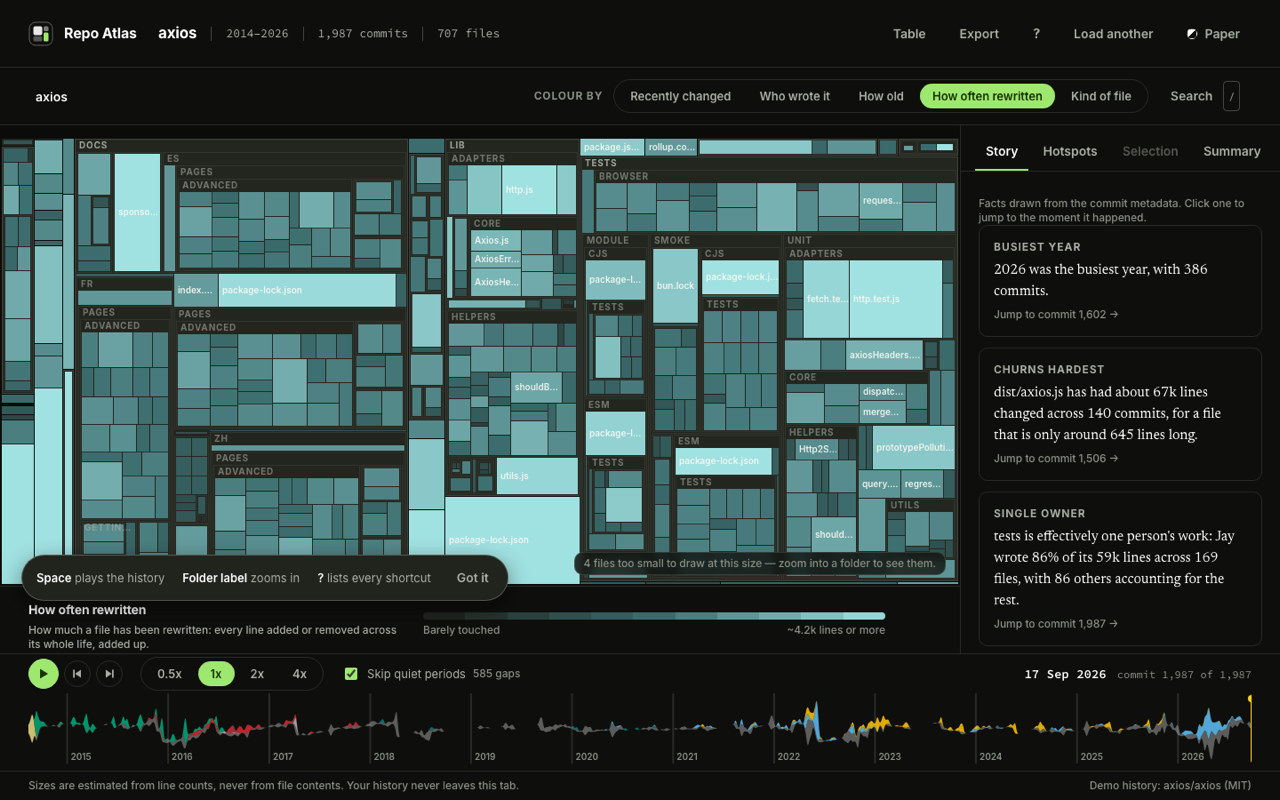
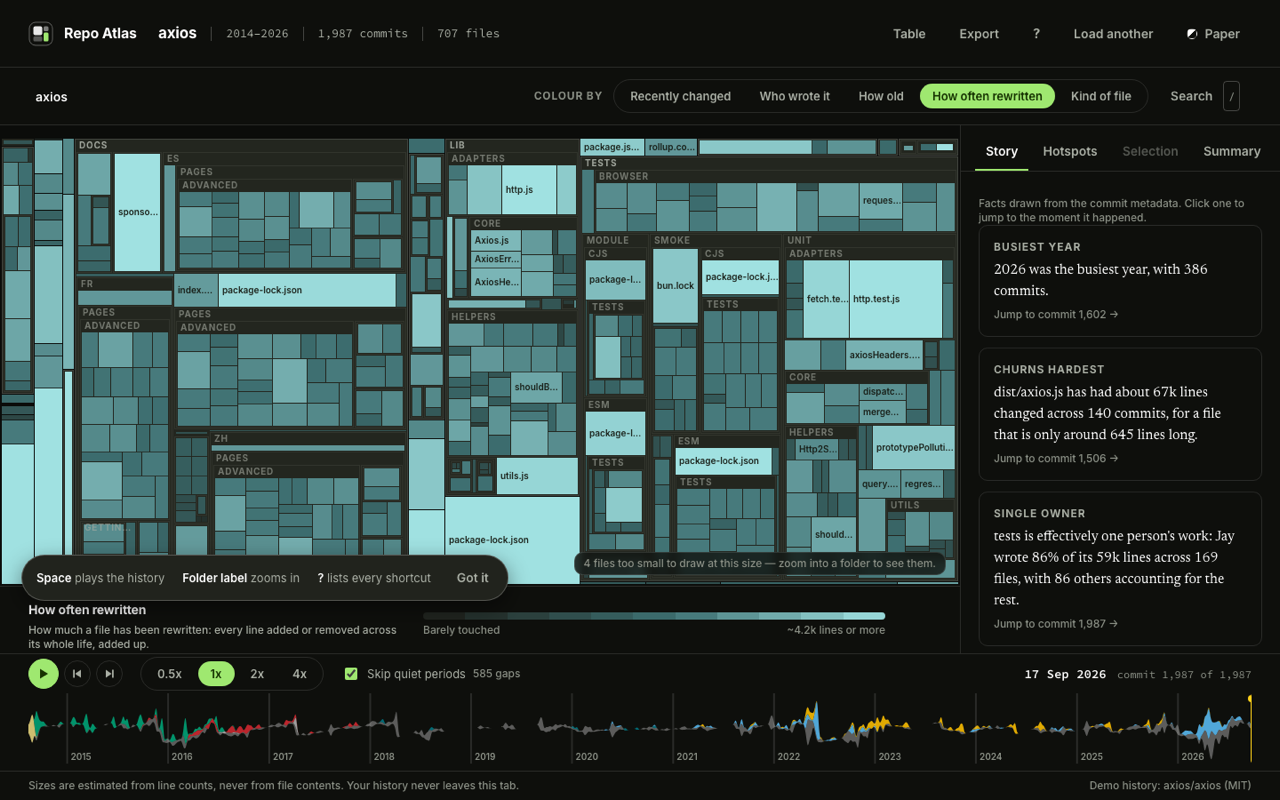
Fix unreadable map labels on bright cells
Labels on the Recently changed, How old and How often rewritten maps were
white on bright yellow and lime. The ink for each cell came from a luminance
helper that only understood #rrggbb, but those three ramps are built by d3 and
come back as rgb(r, g, b) strings. They failed to parse, the helper silently
substituted mid-grey, and every shade of every ramp was judged "dark" and given
white text. Who wrote it and Kind of file use hex colours, which is why they
looked right.

Colour parsing now handles hex, short hex and rgb()/rgba(), and throws on
anything it cannot read instead of guessing. The ink is whichever of the two
has the higher measured contrast, rather than a fixed brightness cut-off that
sat slightly off the real crossover.

Between very dark and very light there is a band of mid-tones where neither ink
reaches 4.5:1, and a smooth ramp has to cross it. Shades that land in it now
borrow their nearest readable neighbour, so no cell can have a label that
cannot be read while the ramp still looks continuous.

The palette is now built by a pure function that a test runs against the real
stylesheet, checking the ink on every shade in both themes. The existing
contrast test only checked each ramp's five anchor colours, never the shades
between them or the code that picks the ink, so it could not have caught this.
The new test fails when the original bug is put back.

diff --git a/src/map/colors.ts b/src/map/colors.ts
@@ -38,28 +38,86 @@ export const MODE_HINTS: Record<Mode, string> = {
 
 const LUT_N = 64;
 
-function ramp(stops: string[], domain?: number[]): string[] {
+/** Text has to reach this against whatever it is drawn on (WCAG AA, section 11). */
+export const MIN_CONTRAST = 4.5;
+
+/**
+ * Read any CSS colour a token or a d3 interpolation can produce.
+ *
+ * d3 hands back `rgb(r, g, b)` strings while the tokens are hex, and the ink
+ * choice below depends on reading both. An unreadable colour throws rather than
+ * falling back to a guess: an earlier version defaulted to mid-grey, which made
+ * every interpolated shade look "dark" and put white labels on bright yellow.
+ */
+export function parseColour(css: string): [number, number, number] {
+  const c = css.trim().toLowerCase();
+
+  if (c.startsWith('#')) {
+    const hex = c.length === 4 ? c.slice(1).replace(/./g, (d) => d + d) : c.slice(1, 7);
+    if (/^[0-9a-f]{6}$/.test(hex)) {
+      return [0, 2, 4].map((i) => parseInt(hex.slice(i, i + 2), 16)) as [number, number, number];
+    }
+  }
+
+  const fn = c.match(/^rgba?\(([^)]*)\)/);
+  if (fn) {
+    const parts = fn[1]!.split(/[\s,/]+/).filter(Boolean).slice(0, 3).map(Number);
+    if (parts.length === 3 && parts.every((n) => Number.isFinite(n))) {
+      return parts.map((n) => Math.max(0, Math.min(255, Math.round(n)))) as [number, number, number];
+    }
+  }
+
+  throw new Error(`Cannot read "${css}" as a colour`);
+}
+
+/** Relative luminance, per WCAG. */
+export function luminance(css: string): number {
+  const [r, g, b] = parseColour(css).map((v) => {
+    const s = v / 255;
+    return s <= 0.03928 ? s / 12.92 : Math.pow((s + 0.055) / 1.055, 2.4);
+  }) as [number, number, number];
+  return 0.2126 * r + 0.7152 * g + 0.0722 * b;
+}
+
+export function contrastRatio(a: string, b: string): number {
+  const la = luminance(a);
+  const lb = luminance(b);
+  return (Math.max(la, lb) + 0.05) / (Math.min(la, lb) + 0.05);
+}
+
+/** How well the better of the two inks reads on a fill. */
+function bestContrast(fill: string, inkDark: string, inkLight: string): number {
+  return Math.max(contrastRatio(fill, inkDark), contrastRatio(fill, inkLight));
+}
+
+/**
+ * Between very dark and very light there is a band of mid-tones where neither
+ * a near-black nor a near-white label reaches the minimum. A smooth ramp has to
+ * cross it, and a cell that lands inside it would have unreadable text.
+ *
+ * Each shade in the band borrows its nearest readable neighbour instead. The
+ * ramp stays visually continuous, since the band is only a few of 64 steps wide,
+ * but no cell can ever end up with a label that cannot be read.
+ */
+function makeLegible(lut: string[], inkDark: string, inkLight: string): string[] {
+  const ok = lut.map((c) => bestContrast(c, inkDark, inkLight) >= MIN_CONTRAST);
+  return lut.map((c, i) => {
+    if (ok[i]) return c;
+    for (let d = 1; d < lut.length; d++) {
+      if (i - d >= 0 && ok[i - d]) return lut[i - d]!;
+      if (i + d < lut.length && ok[i + d]) return lut[i + d]!;
+    }
+    return c;
+  });
+}
+
+function ramp(stops: string[], inks: [string, string], domain?: number[]): string[] {
   const d = domain ?? stops.map((_, i) => i / (stops.length - 1));
   const scale = scaleLinear<string>().domain(d).range(stops).interpolate(interpolateRgb);
   const out: string[] = [];
   for (let i = 0; i < LUT_N; i++) out.push(scale(i / (LUT_N - 1)));
-  return out;
+  return makeLegible(out, inks[0], inks[1]);
 }
-
-/** Relative luminance, for choosing an ink that will be readable on a cell. */
-export function luminance(hex: string): number {
-  const h = hex.trim();
-  const parse = (i: number) =>
-    h.length === 4 ? parseInt(h[i / 2 + 1]! + h[i / 2 + 1]!, 16) : parseInt(h.slice(i + 1, i + 3), 16);
-  const srgb = [parse(0), parse(2), parse(4)].map((c) => {
-    const v = (Number.isNaN(c) ? 128 : c) / 255;
-    return v <= 0.03928 ? v / 12.92 : Math.pow((v + 0.055) / 1.055, 2.4);
-  });
-  return 0.2126 * srgb[0]! + 0.7152 * srgb[1]! + 0.0722 * srgb[2]!;
-}
-
-/** Above this, a cell needs dark ink; below it, light ink. */
-const INK_SPLIT = 0.22;
 
 export interface Palette {
   activity: string[];
@@ -84,7 +142,6 @@ export interface Palette {
   fresh: string;
   /** Outline a deleted file leaves behind. */
   ghost: string;
-  arc: string;
   /** Inks for labels drawn on a cell, and which one each colour wants. */
   inkLight: string;
   inkDark: string;
@@ -99,17 +156,29 @@ export interface Palette {
 
 export function readPalette(el: HTMLElement): Palette {
   const cs = getComputedStyle(el);
-  const v = (name: string) => cs.getPropertyValue(name).trim();
+  return buildPalette((name) => cs.getPropertyValue(name).trim(), el.dataset.theme ?? 'night');
+}
+
+/**
+ * The palette for one theme, from a function that looks tokens up by name.
+ * Kept free of the DOM so a test can build exactly what the renderer builds,
+ * from the real stylesheet, and check every colour a cell can be.
+ */
+export function buildPalette(v: (token: string) => string, theme: string): Palette {
+  const inkDark = v('--label-on-light');
+  const inkLight = v('--label-on-dark');
+  const inks: [string, string] = [inkDark, inkLight];
 
   // Warm colours are pushed to the top of the activity ramp: at the latest
   // commit most files have been touched at some point, and if "touched once"
   // already reads as hot then nothing stands out.
   const activity = ramp(
     [v('--heat-0'), v('--heat-1'), v('--heat-2'), v('--heat-3'), v('--heat-4')],
+    inks,
     [0, 0.42, 0.68, 0.86, 1],
   );
-  const age = ramp([v('--age-old'), v('--age-mid'), v('--age-new')]);
-  const churn = ramp([v('--churn-0'), v('--churn-1'), v('--churn-2')]);
+  const age = ramp([v('--age-old'), v('--age-mid'), v('--age-new')], inks);
+  const churn = ramp([v('--churn-0'), v('--churn-1'), v('--churn-2')], inks);
   const author = [
     v('--cat-1'), v('--cat-2'), v('--cat-3'), v('--cat-4'), v('--cat-5'),
     v('--cat-6'), v('--cat-7'), v('--cat-8'), v('--cat-9'), v('--cat-10'),
@@ -133,27 +202,28 @@ export function readPalette(el: HTMLElement): Palette {
     labelStrong: v('--text-muted'),
     selection: v('--info'),
     glow: v('--accent'),
-    dark: (el.dataset.theme ?? 'night') !== 'paper',
+    dark: theme !== 'paper',
     hot: v('--heat-4'),
     fresh: v('--accent'),
     ghost: v('--danger'),
-    arc: v('--info'),
-    inkLight: v('--label-on-dark'),
-    inkDark: v('--label-on-light'),
+    inkLight,
+    inkDark,
     needsDarkInk: {
-      activity: inkMask(activity),
-      age: inkMask(age),
-      churn: inkMask(churn),
-      author: inkMask(author),
-      type: inkMask(type),
+      activity: inkMask(activity, inkDark, inkLight),
+      age: inkMask(age, inkDark, inkLight),
+      churn: inkMask(churn, inkDark, inkLight),
+      author: inkMask(author, inkDark, inkLight),
+      type: inkMask(type, inkDark, inkLight),
     },
   };
 }
 
-/** 1 where a colour is light enough that a label on it must be dark. */
-function inkMask(colours: string[]): Uint8Array {
+/** 1 where dark ink reads better on a colour than light ink does. */
+function inkMask(colours: string[], inkDark: string, inkLight: string): Uint8Array {
   const out = new Uint8Array(colours.length);
-  for (let i = 0; i < colours.length; i++) out[i] = luminance(colours[i]!) > INK_SPLIT ? 1 : 0;
+  for (let i = 0; i < colours.length; i++) {
+    out[i] = contrastRatio(colours[i]!, inkDark) >= contrastRatio(colours[i]!, inkLight) ? 1 : 0;
+  }
   return out;
 }
 

diff --git a/src/map/colors.test.ts b/src/map/colors.test.ts
@@ -1,0 +1,105 @@
+import { describe, it, expect } from 'vitest';
+import { tokensFor, type ThemeName } from '../test/tokens';
+import {
+  MIN_CONTRAST,
+  buildPalette,
+  contrastRatio,
+  luminance,
+  parseColour,
+  type Palette,
+} from './colors';
+
+describe('reading colours', () => {
+  it('understands hex, short hex and the rgb() form d3 produces', () => {
+    expect(parseColour('#9fe870')).toEqual([159, 232, 112]);
+    expect(parseColour('#fff')).toEqual([255, 255, 255]);
+    expect(parseColour('rgb(95, 138, 66)')).toEqual([95, 138, 66]);
+    expect(parseColour('rgba(10, 20, 30, 0.5)')).toEqual([10, 20, 30]);
+    expect(parseColour('rgb(10 20 30)')).toEqual([10, 20, 30]);
+  });
+
+  it('refuses a colour it cannot read instead of guessing', () => {
+    // The bug this guards against: an unreadable colour used to become mid-grey,
+    // which quietly gave every interpolated shade the wrong label colour.
+    for (const bad of ['', 'banana', '#12', 'var(--x)', 'rgb(a, b, c)']) {
+      expect(() => parseColour(bad), bad).toThrow(/Cannot read/);
+    }
+  });
+
+  it('agrees with the WCAG extremes', () => {
+    expect(luminance('#000000')).toBeCloseTo(0, 5);
+    expect(luminance('rgb(255, 255, 255)')).toBeCloseTo(1, 5);
+    expect(contrastRatio('#000000', '#ffffff')).toBeCloseTo(21, 1);
+  });
+});
+
+/** Every shade of every palette, with the group it belongs to. */
+function shades(pal: Palette): [string, string, number][] {
+  const out: [string, string, number][] = [];
+  for (const group of ['activity', 'age', 'churn', 'author', 'type'] as const) {
+    pal[group].forEach((colour, i) => out.push([group, colour, i]));
+  }
+  return out;
+}
+
+describe.each(['night', 'paper'] as ThemeName[])('the %s palette as the renderer builds it', (theme) => {
+  const pal = buildPalette(tokensFor(theme), theme);
+
+  it('gives every shade a label ink that reaches the minimum contrast', () => {
+    const failures: string[] = [];
+    for (const group of ['activity', 'age', 'churn', 'author', 'type'] as const) {
+      pal[group].forEach((colour, i) => {
+        const ink = pal.needsDarkInk[group][i] === 1 ? pal.inkDark : pal.inkLight;
+        const ratio = contrastRatio(colour, ink);
+        if (ratio < MIN_CONTRAST) failures.push(`${group}[${i}] ${colour}: ${ratio.toFixed(2)}:1`);
+      });
+    }
+    expect(failures, failures.slice(0, 5).join('\n')).toEqual([]);
+  });
+
+  it('picks the better ink for every shade, whatever the ramp looks like', () => {
+    // The regression: with every interpolated shade misread as mid-grey, the
+    // hottest, brightest cell on the map was handed white text. Whatever a
+    // theme's ramps look like, the ink chosen must be the one that reads better.
+    const wrong: string[] = [];
+    for (const group of ['activity', 'age', 'churn', 'author', 'type'] as const) {
+      pal[group].forEach((colour, i) => {
+        const chosen = pal.needsDarkInk[group][i] === 1 ? pal.inkDark : pal.inkLight;
+        const other = pal.needsDarkInk[group][i] === 1 ? pal.inkLight : pal.inkDark;
+        if (contrastRatio(colour, chosen) < contrastRatio(colour, other)) {
+          wrong.push(`${group}[${i}] ${colour}`);
+        }
+      });
+    }
+    expect(wrong, wrong.slice(0, 5).join('\n')).toEqual([]);
+  });
+
+  it('never hands light ink to a bright shade or dark ink to a dark one', () => {
+    for (const [group, colour, i] of shades(pal)) {
+      const lum = luminance(colour);
+      const dark = pal.needsDarkInk[group as 'activity'][i] === 1;
+      if (lum > 0.5) expect(dark, `${group}[${i}] ${colour} is bright`).toBe(true);
+      if (lum < 0.05) expect(dark, `${group}[${i}] ${colour} is dark`).toBe(false);
+    }
+  });
+
+  // Night's ramps run from near-black to bright, so they must use both inks.
+  // Paper's activity ramp is light throughout, where dark ink throughout is right.
+  it.runIf(theme === 'night')('uses both inks across a ramp that spans dark to bright', () => {
+    for (const group of ['activity', 'age', 'churn'] as const) {
+      expect(new Set(pal.needsDarkInk[group]).size, `${group} uses both inks`).toBe(2);
+    }
+  });
+
+  it('keeps every ramp continuous enough to read as a ramp', () => {
+    // Borrowing a neighbour's colour must not turn a ramp into a few big blocks.
+    for (const group of ['activity', 'age', 'churn'] as const) {
+      const distinct = new Set(pal[group]).size;
+      expect(distinct, `${group} distinct shades`).toBeGreaterThanOrEqual(48);
+    }
+  });
+
+  it('has shades to test at all', () => {
+    expect(shades(pal).length).toBeGreaterThan(200);
+  });
+});

diff --git a/src/test/tokens.ts b/src/test/tokens.ts
@@ -1,0 +1,34 @@
+import { readFileSync } from 'node:fs';
+
+/** Reads design tokens out of the real stylesheet, so tests see what ships. */
+const css = readFileSync('src/styles/tokens.css', 'utf8');
+
+function block(selector: string): Record<string, string> {
+  const i = css.indexOf(selector);
+  if (i < 0) throw new Error(`no block for ${selector}`);
+  const open = css.indexOf('{', i);
+  const close = css.indexOf('}', open);
+  const out: Record<string, string> = {};
+  for (const line of css.slice(open + 1, close).split('\n')) {
+    const m = line.match(/^\s*(--[a-z0-9-]+)\s*:\s*([^;]+);/i);
+    if (m) out[m[1]!] = m[2]!.trim();
+  }
+  return out;
+}
+
+const shared = block(':root {');
+const themes = {
+  night: { ...shared, ...block(":root[data-theme='night']") },
+  paper: { ...shared, ...block(":root[data-theme='paper']") },
+};
+
+export type ThemeName = keyof typeof themes;
+
+/** A token lookup for one theme, shaped the way the palette builder wants it. */
+export function tokensFor(theme: ThemeName): (name: string) => string {
+  return (name) => {
+    const v = themes[theme][name];
+    if (v === undefined) throw new Error(`token ${name} is not defined for ${theme}`);
+    return v;
+  };
+}

diff --git a/README.md b/README.md
@@ -581,9 +581,28 @@ through instead, which is why the "too small to draw" note exists.
 
 **Readable labels.** A file's label sits directly on its cell, and that cell's
 colour is data — it could be near-black or bright yellow. A single grey cannot
-work on both. Each cell therefore chooses dark or light ink based on its own
-brightness, and a test checks both inks against all 27 possible cell colours in
-both themes.
+work on both, so each cell gets whichever of two inks (near-black or near-white)
+has the higher contrast against its own colour.
+
+Three details make that reliable rather than approximate:
+
+- **Every colour format is understood.** The colour ramps are interpolated by
+  d3, which hands back `rgb(r, g, b)` strings, while the design tokens are hex.
+  The code that reads colours handles both and *throws* on anything it cannot
+  read. An earlier version silently treated an unreadable colour as mid-grey,
+  which gave every interpolated shade white text — including the brightest
+  yellow on the map.
+- **The ink is picked by measured contrast**, not by a brightness cut-off, so it
+  is always the better of the two.
+- **There is a band of mid-tones where neither ink reaches the 4.5:1 minimum.**
+  A smooth ramp has to cross it, so any of the 64 shades that lands inside it
+  borrows its nearest readable neighbour. The band is only a few steps wide, so
+  the ramp still looks continuous, but no cell can end up with a label that
+  cannot be read.
+
+A test builds the palette the same way the renderer does, from the real
+stylesheet, and checks the ink on every one of the several hundred shades in both
+themes. It also fails if the original bug is put back.
 
 **Hit testing** uses a grid of buckets, so finding what is under the pointer
 checks a handful of rectangles rather than 20,000. It also allows a three-pixel
